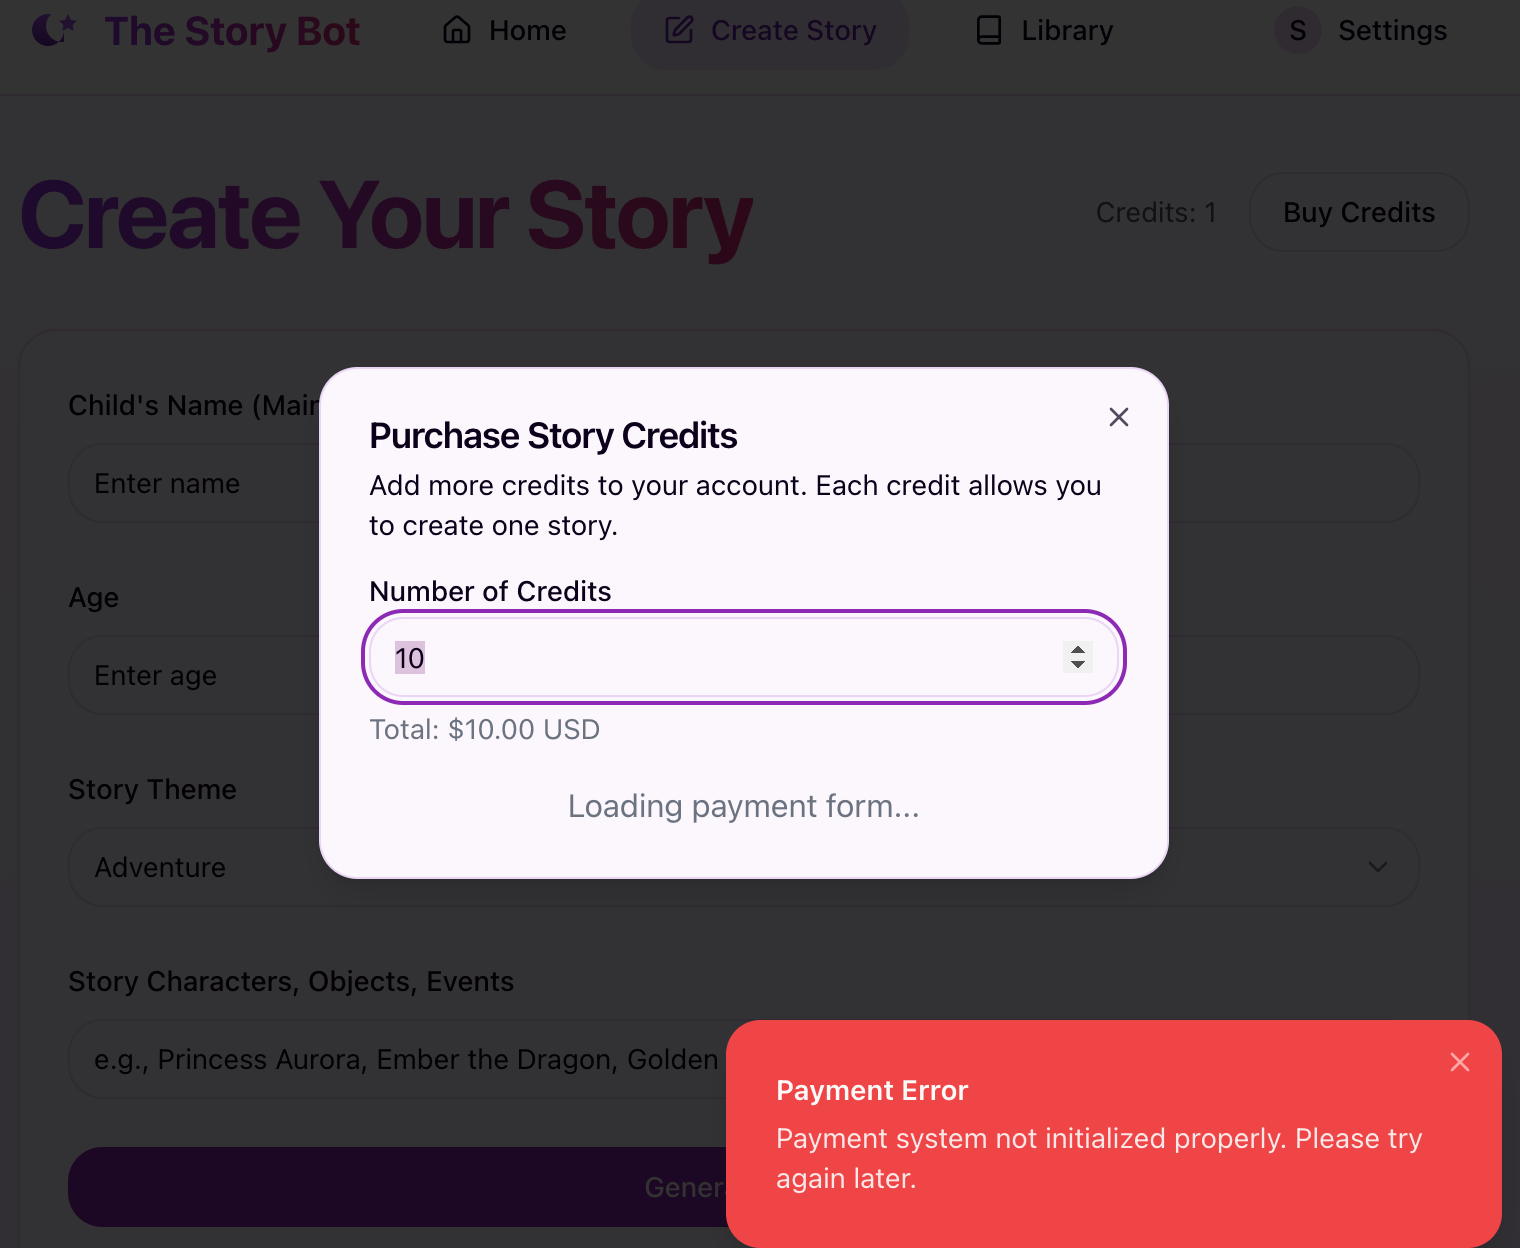
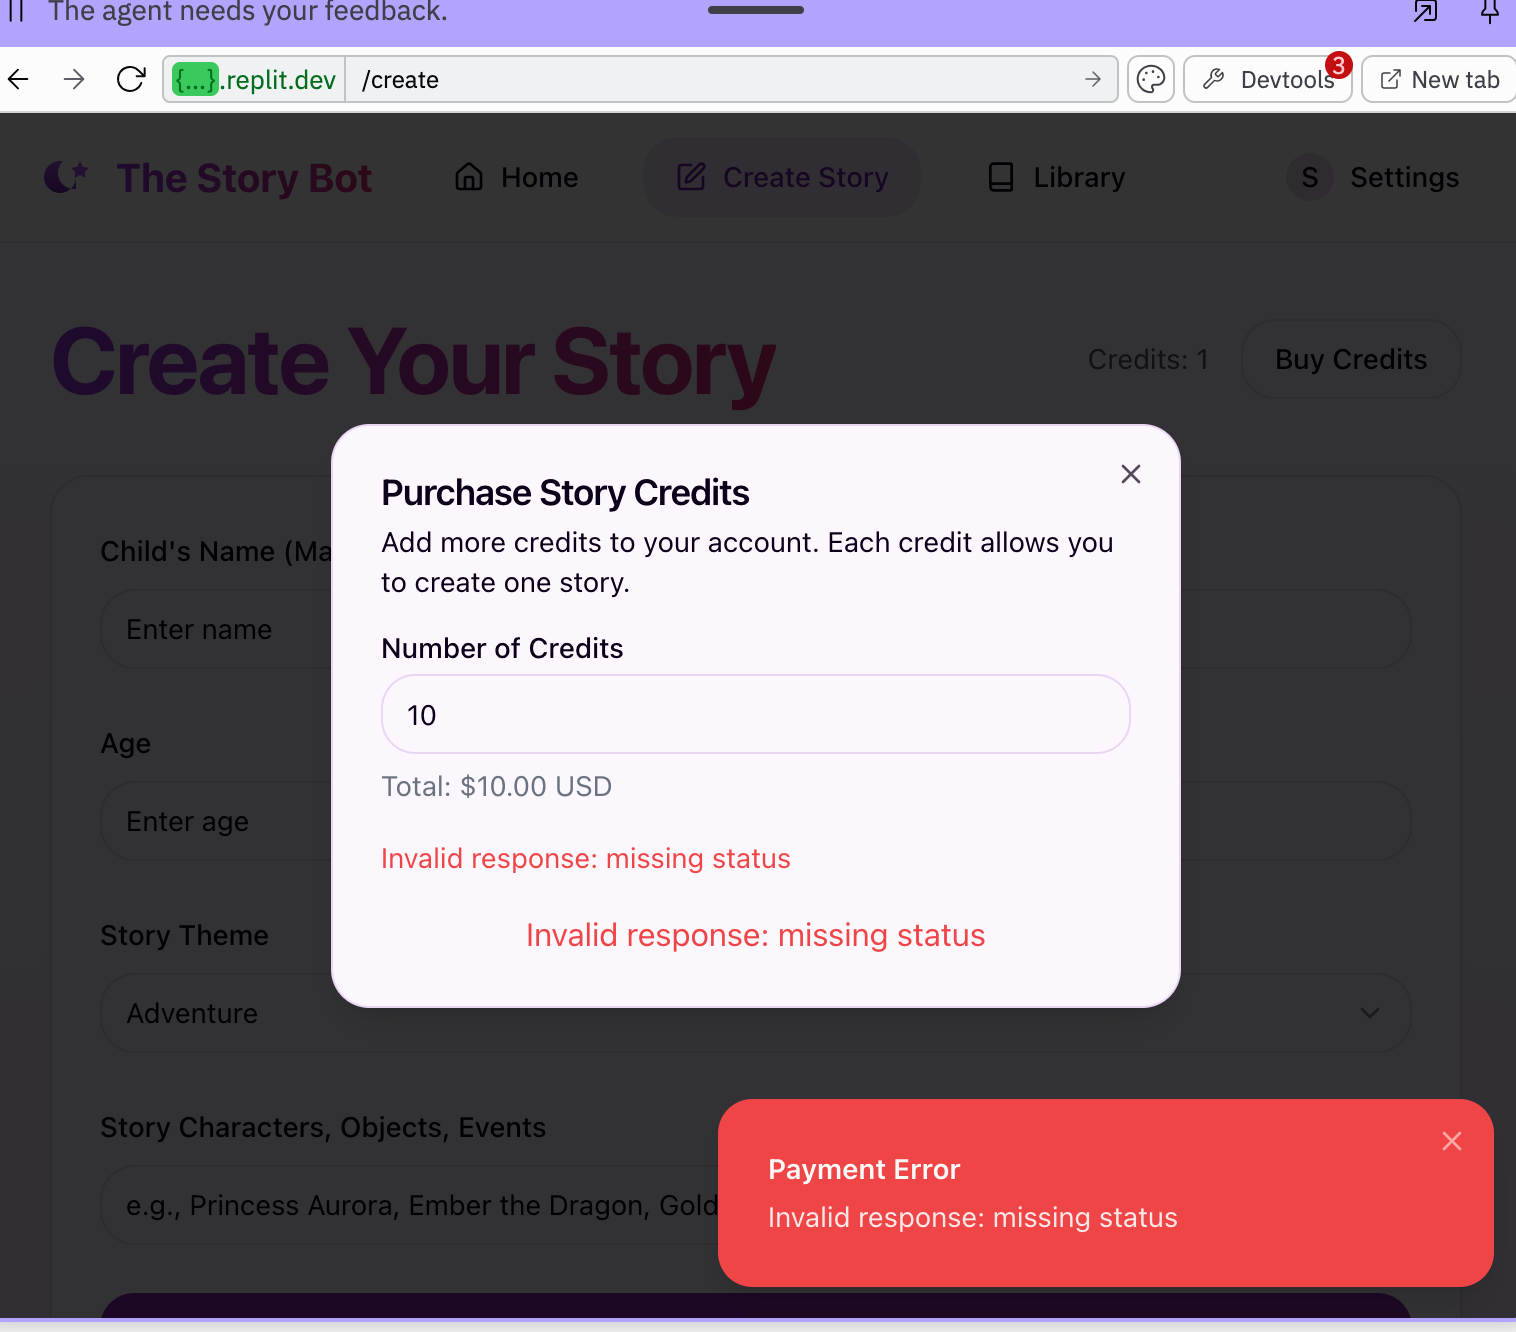
Agent query: Please try purchasing credits again and let me know if you see any errors. I've added more detailed logging to help debug any issues.

diff --git a/client/src/lib/api.ts b/client/src/lib/api.ts
@@ -205,8 +205,19 @@ export async function purchaseCredits(amount: number): Promise<PaymentIntentResp
 
     const data = await response.json();
     
+    console.log('Credit purchase response received:', {
+      requestId,
+      responseData: data,
+      timestamp: new Date().toISOString()
+    });
+    
     // Validate the response structure
     if (!data || typeof data !== 'object') {
+      console.error('Invalid response format:', {
+        requestId,
+        receivedData: data,
+        timestamp: new Date().toISOString()
+      });
       throw new Error('Invalid response format from server');
     }
 
@@ -218,10 +229,25 @@ export async function purchaseCredits(amount: number): Promise<PaymentIntentResp
       console.error('Missing required fields in response:', {
         requestId,
         missingFields,
+        receivedFields: Object.keys(data),
+        partialData: {
+          clientSecret: !!data.clientSecret,
+          amount: !!data.amount,
+          status: !!data.status,
+          otherFields: Object.keys(data).filter(k => !requiredFields.includes(k))
+        },
         timestamp: new Date().toISOString()
       });
       throw new Error(`Invalid response: missing ${missingFields.join(', ')}`);
     }
+
+    console.log('Credit purchase response validated:', {
+      requestId,
+      amount: data.amount,
+      creditsToAdd: data.creditsToAdd,
+      status: data.status,
+      timestamp: new Date().toISOString()
+    });
 
     console.log('Credit purchase response received:', {
       requestId,

diff --git a/server/services/stripe.ts b/server/services/stripe.ts
@@ -249,13 +249,27 @@ export async function createPaymentIntent({
       timestamp: new Date().toISOString()
     });
 
-    return {
+    const response = {
       clientSecret: paymentIntent.client_secret!,
       paymentIntentId: paymentIntent.id,
       amount: amountInCents,
       currency: paymentIntent.currency,
       status: paymentIntent.status,
+      creditsToAdd: credits,
+      currentCredits: 0, // This will be set by the credits service
+      projectedTotalCredits: 0, // This will be set by the credits service
+      transactionId: 0, // This will be set by the credits service
+      stripePaymentId: paymentIntent.id
     };
+
+    console.log('Payment intent response created:', {
+      paymentIntentId: paymentIntent.id,
+      amount: amountInCents,
+      status: paymentIntent.status,
+      timestamp: new Date().toISOString()
+    });
+
+    return response;
   } catch (error) {
     console.error('Error creating payment intent:', {
       error: error instanceof Error ? error.message : 'Unknown error',
